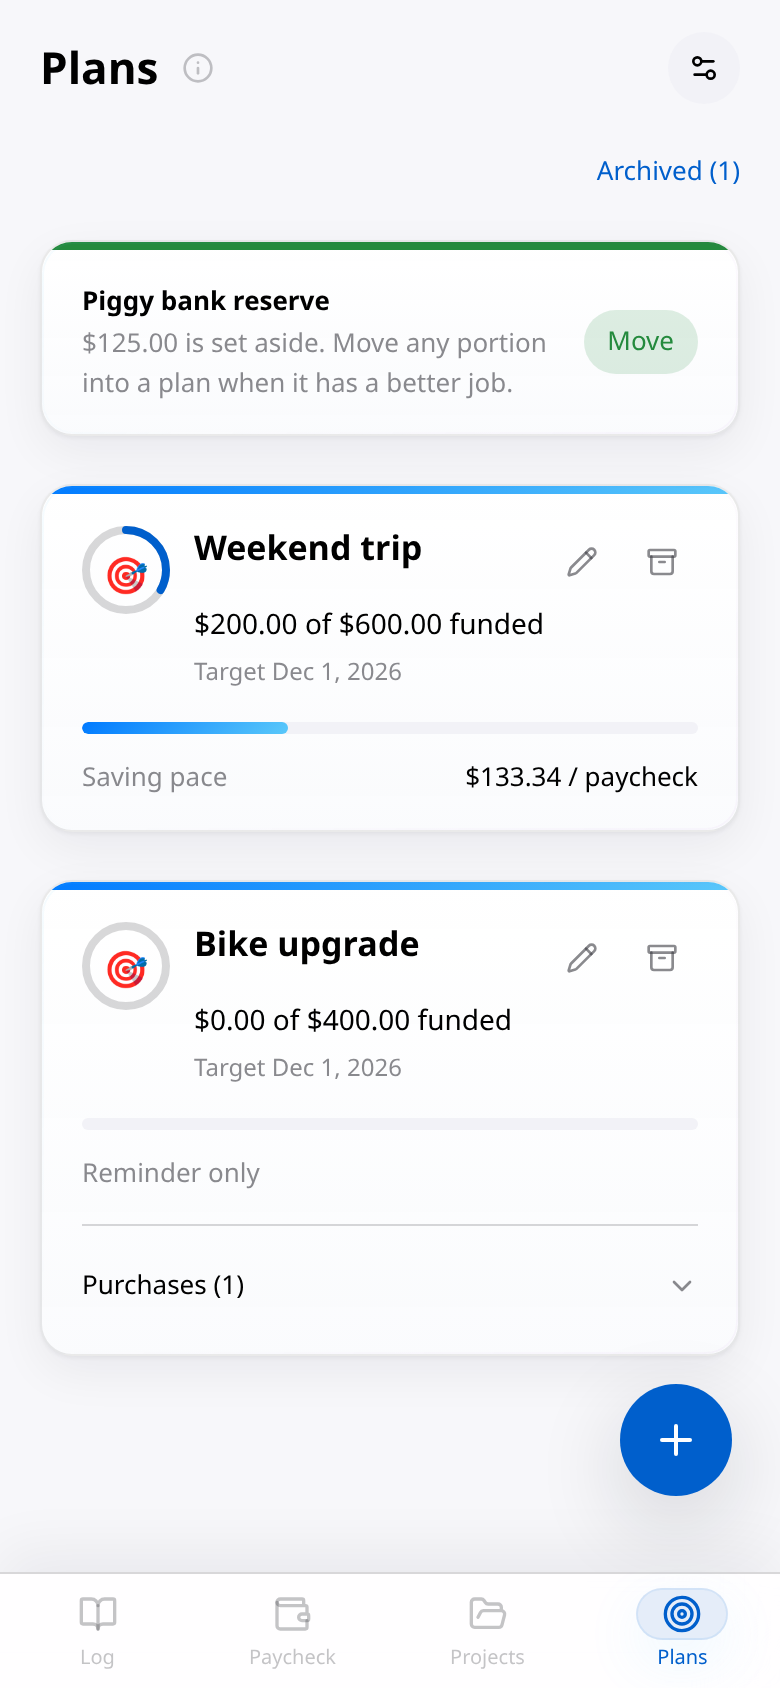
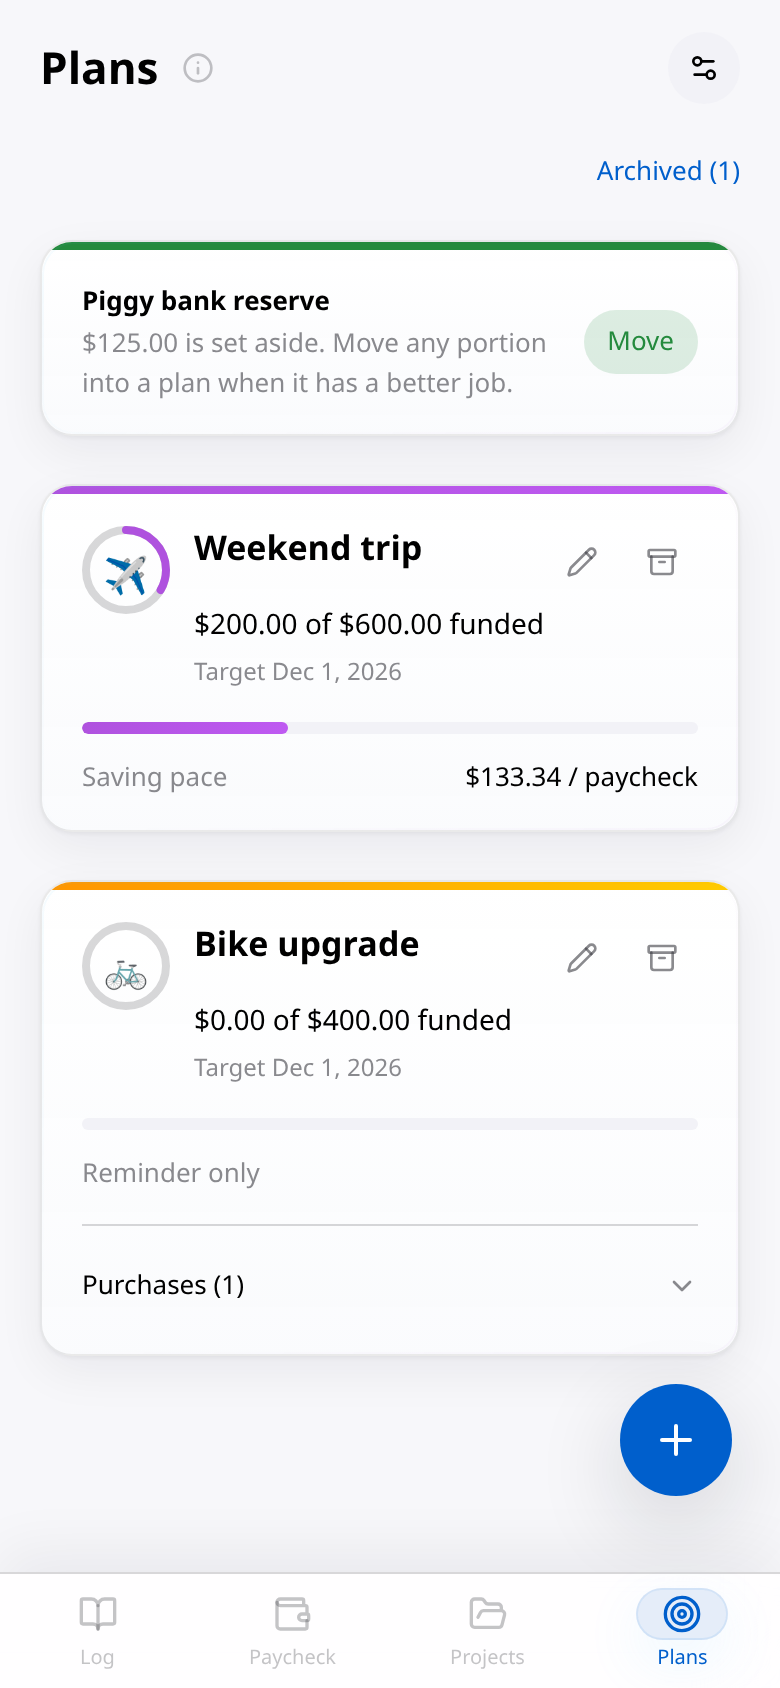
Give demo Plans distinct appearances and show paycheck history

Changed region(s): [[0.0923, 0.2773, 0.9231, 0.3697], [0.0923, 0.5237, 0.9231, 0.5853], [0.1231, 0.4005, 0.3692, 0.4621]]

diff --git a/app/(app)/goals/goals-client.tsx b/app/(app)/goals/goals-client.tsx
@@ -62,6 +62,7 @@ const EMOJI_CHOICES = [
   "🏝",
   "🏠",
   "🚗",
+  "🚲",
   "💍",
   "🎓",
   "🎁",

diff --git a/docs/DEMO.md b/docs/DEMO.md
@@ -6,7 +6,7 @@ This walkthrough uses invented income, expenses, and savings. Screenshots were c
 
 Use a separate blank demo installation and a new account, then follow these steps through the UI. A normal installation starts empty; the database setup does not insert this example. You do not need SQL or an administrative key to enter the scenario.
 
-Choose your current local date as the recent payday and use America/New_York for the example timezone. The screenshots were captured on October 6, 2026. For a later walkthrough, shift the due dates and Plan dates relative to your own starting date.
+Choose your current local date as the recent payday and use America/New_York for the example timezone. The opening screenshots use October 6, 2026; the later timeline advances to November 5. For a later walkthrough, shift the due dates and Plan dates relative to your own starting date.
 
 | Setup | Fictional value |
 | --- | --- |
@@ -34,36 +34,38 @@ Paycheck shows the current spending envelope shares and investment remainder aft
 
 ## 3. Record everyday spending
 
-In Log, add $36.40 to Groceries with the description Weekly groceries, then $12 to Fun money with the description Coffee with friends. Review each formatted amount before saving. Fun money now has $48 left.
+In Log, add $36.40 to Groceries with the description Costco, then $12 to Fun money with the description Starbucks. The description names the merchant; the selected envelope supplies the spending category. Review each formatted amount before saving. Fun money now has $48 left.
 
-<img src="screenshots/04-daily-log.png" width="300" alt="Daily Log containing fictional groceries and coffee purchases">
+<img src="screenshots/04-daily-log.png" width="300" alt="Daily Log containing fictional Costco and Starbucks purchases in their spending envelopes">
 
 ## 4. Give saved money a purpose
 
 In Plans, create these three examples. Set their target dates eight weeks after setup.
 
-| Plan | Target | Already saved | Save from paychecks |
-| --- | --- | --- | --- |
-| Weekend trip | $600 | $200 | On; start with the next paycheck |
-| Home workspace | $500 | $500 | Off |
-| Bike upgrade | $400 | $0 | Off |
+Open Appearance in each Plan form to choose its icon and color.
 
-The Weekend trip card shows the saving pace for the eligible paydays before its target date. Already saved represents fictional money already set aside; it is not extra income from the current paycheck.
+| Plan | Icon / color | Target | Already saved | Save from paychecks |
+| --- | --- | --- | --- | --- |
+| Weekend trip | ✈ / Lilac | $600 | $200 | On; start with the next paycheck |
+| Home workspace | 💻 / Ocean | $500 | $500 | Off |
+| Bike upgrade | 🚲 / Sunset | $400 | $0 | Off |
+
+The Weekend trip card shows the saving pace for the eligible paydays before its target date. Already saved represents fictional money already set aside; it is not extra income from the current paycheck. A fully funded Plan uses a green progress accent, as shown by Home workspace.
 
 <img src="screenshots/05-plans.png" width="300" alt="Three fictional Plans with saved balances and a scheduled saving pace">
 
 ## 5. Buy within a funded Project
 
-In Projects, choose Add project and select Home workspace. Record a Keyboard for $85 and a Desk lamp for $40. The $500 already saved covers both purchases, leaving $375 available.
+In Projects, choose Add project and select Home workspace. Open Organize, choose Add group, enter Equipment, and select Done. Record a Keyboard for $85 and a Desk lamp for $40, choosing Equipment in each purchase form. The $500 already saved covers both purchases, leaving $375 available.
 
-<img src="screenshots/06-project-funded.png" width="300" alt="Home workspace Project with two purchases covered by saved money">
+<img src="screenshots/06-project-funded.png" width="300" alt="Home workspace Project with funded keyboard and lamp purchases grouped as Equipment">
 
 ## 6. See a purchase that needs future money
 
-Add Bike upgrade as another Project and enter a $75 Bike rack. Before saving, the form shows that $75 will be covered by future paychecks. After saving, the Project retains that funding need. Choosing a later date does not turn this purchase into an already-funded one.
+Add Bike upgrade as another Project and use Organize to create a Parts group. Enter a $75 Bike rack and choose Parts in the purchase form. Before saving, the form shows that $75 will be covered by future paychecks. After saving, the Project retains that funding need. Choosing a later date does not turn this purchase into an already-funded one.
 
 <img src="screenshots/07-purchase-future.png" width="300" alt="Bike rack purchase form showing seventy-five dollars that needs future paychecks">
-<img src="screenshots/08-project-future.png" width="300" alt="Bike upgrade Project showing its remaining future funding requirement">
+<img src="screenshots/08-project-future.png" width="300" alt="Bike upgrade Project with its rack listed under Parts and a remaining future funding requirement">
 
 ## 7. Finish the funded Project
 
@@ -95,5 +97,36 @@ Settings shows the same pay, bills, and envelopes entered during setup. Because 
 ## What was verified
 
 The walkthrough uses ordinary app forms and actions. Local database checks verify the $375 completion release, the $125/$250 allocation split, the $80 recorded investment, and zero covered funding for the Bike rack when it was recorded. The browser title, manifest names, icon responses, mobile width, and browser errors are checked during capture.
+
+## Follow the account across paydays
+
+The same fictional account continues from October 6 through November 5. Browser, app server, and the disposable financial database advance together; authentication stays on its real clock. These date controls are local capture tooling and are not installed into the product.
+
+| Date | Added activity |
+| --- | --- |
+| October 7 | Sam’s Club $88.15 in Groceries, Shell $38 in Transport, Dunkin’ $5.75 in Fun money. |
+| October 13 | Confirm Apartment rent $1,000 and Internet $60 on their due date. |
+| October 20 | A new paycheck; Walmart $54.23, Shell $42, AMC $18, $100 income from Facebook Marketplace, and a $400 actual investment transfer. |
+| October 25 | ALDI $24.85, Uber $14, AMC $16. |
+| November 3 | Another paycheck; eligible saving and funding synchronize. |
+| November 5 | Costco $64.25, Shell $39.50, Starbucks $8.75. |
+
+The expanded paycheck breakdown shows the current funding priorities. History now contains the October 6–19 and October 20–November 2 paychecks, with income, spending, and a receipt for each. By month combines the earlier activity into October. The original $80 and later $400 actual investment records stay attached to their own paychecks.
+
+| History period | Income | Spending |
+| --- | --- | --- |
+| October 6–19 | $2,000.00 | $1,440.30 |
+| October 20–November 2 | $2,100.00 | $169.08 |
+| October by month | $4,100.00 | $1,609.38 |
+
+The final account contains 20 entries across six dates and two confirmed bill payments. Two scheduled saving contributions fund Weekend trip to $466.67. Reopening the views does not duplicate those contributions.
+
+<img src="screenshots/16-paycheck-breakdown.png" width="350" alt="Full expanded November paycheck breakdown showing bills, spending envelopes, saving, and the investment remainder">
+<img src="screenshots/17-paycheck-history.png" width="300" alt="Populated History card showing two past paychecks with income and spending">
+<img src="screenshots/18-history-detail.png" width="300" alt="A past paycheck receipt with its income and spending details">
+<img src="screenshots/19-paycheck-month-history.png" width="300" alt="History grouped by month with October income and spending">
+<img src="screenshots/20-log-later-paycheck.png" width="300" alt="November daily Log with fictional Costco, Shell, and Starbucks entries">
+<img src="screenshots/21-plans-later-paycheck.png" width="300" alt="Plans after scheduled funding across later paychecks">
+<img src="screenshots/22-log-bill-payments.png" width="300" alt="October 13 Log showing confirmed rent and internet payments">
 
 Clock rollover, missed paydays, leap years, and daylight saving have their own [calendar verification](DATE_TESTING.md). Screenshots freeze the example at its capture date; a running account continues to advance with its saved timezone. The [user guide](USER_GUIDE.md) explains daily use, and [installation](INSTALL.md) explains how to create an independent installation.

diff --git a/PUBLIC_RELEASE_AUDIT.md b/PUBLIC_RELEASE_AUDIT.md
@@ -124,9 +124,15 @@ No schema or dependency changes are required. Existing installations keep their 
 
 The owner selected **Jing’s Finance App** and a fictional walkthrough with screenshots. Shared public identity constants now supply the browser title, account-page label, manifest name, and installed short name **Jing’s Finance**. The existing local blue finance icon and app layout remain in use.
 
-Added `docs/PUBLIC_README_DRAFT.md`, `docs/USER_GUIDE.md`, and `docs/DEMO.md`. The README remains an explicitly marked review draft rather than a final marketing README. The walkthrough contains **15 genuine mobile browser screenshots** of a fresh fictional local account, covering setup, daily spending, Plans, funded/uncovered Project purchases, completion, allocation review, Settings, and actual investing. Screenshots are intentionally included under `docs/screenshots`; test sessions, local credentials, browser state, and capture tooling are excluded. No sample account or SQL seed is installed into the product.
+Added `docs/PUBLIC_README_DRAFT.md`, `docs/USER_GUIDE.md`, and `docs/DEMO.md`. The README remains an explicitly marked review draft rather than a final marketing README. The walkthrough contains **22 genuine mobile browser screenshots** of a fresh fictional local account, covering setup, daily spending, Plans, funded/uncovered Project purchases, completion, allocation review, Settings, actual investing, a full expanded paycheck breakdown, paycheck receipts, and history by paycheck and month. Screenshots are intentionally included under `docs/screenshots`; test sessions, local credentials, browser state, and capture tooling are excluded. No sample account or SQL seed is installed into the product.
 
-The browser capture checked the title, manifest names, icon responses, mobile width, and absence of console/page errors. Database assertions verified one $375 Project release, $125 to Piggy reserve plus $250 to investment from that release, zero initially covered funding for the $75 Bike rack, and an $80 actual investment transfer. A separate browser revisit verified $173 of discretionary funds and the distinct recorded transfer/suggestion. All 15 screenshots were visually reviewed and their PNG integrity/dimensions checked; none contains embedded text or EXIF metadata. All 32 documentation links/image references resolved. A scan of 225 publication text files found no exact local credentials or live-key/project patterns. The full fresh-account confirmation/reset/retained-records browser regression passed after branding; build/TypeScript, lint, and whitespace checks passed. The earlier 402 unit/integration tests and eight calendar/financial browser regressions describe the accounting code, which this presentation step did not change.
+The demo uses distinct Plan appearances selected through the existing form: Weekend trip uses the airplane/Lilac appearance, Bike upgrade uses bicycle/Sunset, and Home workspace uses laptop/Ocean (green when fully funded). The bicycle was added to the curated icon choices. Log descriptions use Costco and Starbucks as fictional merchant examples, with the selected envelopes supplying their spending categories. Project purchases are explicitly grouped into Equipment and Parts through Organize and the purchase form. Capture verifies saved icons/colors, merchant descriptions, purchase-group assignments, and financial outcomes.
+
+The browser capture checked the title, manifest names, icon responses, mobile width, and absence of console/page errors. Database assertions verified one $375 Project release, $125 to Piggy reserve plus $250 to investment from that release, zero initially covered funding for the $75 Bike rack, and an $80 actual investment transfer. A separate browser revisit verified $173 of discretionary funds and the distinct recorded transfer/suggestion.
+
+The same fictional account then advanced from October 6 to November 5 with browser, server, and financial database clocks aligned; authentication retained its real clock. The final account has 20 entries across six dates, two bill confirmations, and two scheduled saving contributions. Browser and database assertions verified two past paycheck cards, their income/spending totals and receipt, monthly history, and repeat-safe saving. The original $80 and later $400 recorded investment transfers retained their respective October 6 and October 20 paychecks. No physical clock or hosted database was changed.
+
+All 22 screenshots were visually reviewed and their PNG integrity/dimensions checked; none contains embedded text or EXIF metadata. The full breakdown uses an element capture so the complete card is visible; the other captures use the mobile viewport. All 41 documentation links/image references resolved. A scan of 225 publication text files found no exact local credentials or live-key/project patterns and no private environment files in the publication tree. The full fresh-account confirmation/reset/retained-records browser regression passed after branding, and the subsequent clock-controlled walkthrough verified the refined demo against the final production build. Build/TypeScript, lint, and whitespace checks passed. The earlier 402 unit/integration tests and eight calendar/financial browser regressions describe the accounting code, which this presentation step did not change.
 
 No schema, dependency, remote, hosted database, or deployment changes were made. Existing installations retain their database and `.env.local` and must not rerun `db:setup`. The fictional walkthrough is available for review; a live hosted demo remains a separate future decision.
 

diff --git a/docs/USER_GUIDE.md b/docs/USER_GUIDE.md
@@ -20,7 +20,7 @@ The opening paycheck is a planning allowance from when tracking starts. Setup do
 
 ## Record the day in Log
 
-Choose Today or a historical date, then use the plus button to add an entry. Select the category, enter the amount, choose its bill/envelope/Plan when applicable, and save. Review the formatted amount before saving.
+Choose Today or a historical date, then use the plus button to add an entry. Select the category, enter the amount, choose its bill/envelope/Plan when applicable, and save. Use the description for the merchant, such as Costco or Walmart; the selected envelope already supplies the spending category. Review the formatted amount before saving.
 
 For a recurring bill, select the saved bill and confirm its actual payment. A payment above the saved budget creates recovery for the excess. Confirming payments keeps the bill's next due date and reserve calculation tied to actual occurrences.
 
@@ -42,7 +42,11 @@ The Next paycheck card shows the upcoming date and the pay amount effective then
 
 Create a Plan with a target amount and date. Enter money already saved only when it is already set aside. Save from paychecks adds scheduled saving to paycheck planning; choose its starting paycheck. Review the saving pace shown on the Plan.
 
+Open Appearance in the Plan form to choose an icon and color so you can recognize each Plan at a glance. Fully funded Plans use a green progress accent.
+
 In Projects, choose Add project and select a Plan. Record purchases there to keep their spending together. Available Plan savings cover a purchase up to the funded amount. The purchase form shows any portion that will need future paychecks.
+
+Use Organize to create specific purchase groups, such as Parts or Equipment, then select the group when adding a purchase. You can also move existing purchases between groups.
 
 When the Project is done, choose Finish project and review its totals. Finishing closes spending and releases only proven unused savings. An uncovered balance continues to need future funding after completion.
 

diff --git a/docs/PUBLIC_README_DRAFT.md b/docs/PUBLIC_README_DRAFT.md
@@ -23,6 +23,8 @@ All records and amounts in these screenshots are fictional. They were captured f
 <img src="screenshots/03-paycheck-start.png" width="240" alt="A fictional paycheck breakdown with sixty dollars of guilt-free money available">
 <img src="screenshots/05-plans.png" width="240" alt="Fictional saving Plans for a weekend trip, home workspace, and bike upgrade">
 <img src="screenshots/06-project-funded.png" width="240" alt="A home workspace Project with funded keyboard and desk lamp purchases">
+<img src="screenshots/16-paycheck-breakdown.png" width="240" alt="Expanded paycheck breakdown after advancing through later paydays">
+<img src="screenshots/17-paycheck-history.png" width="240" alt="Populated paycheck history with two past periods of fictional activity">
 
 Follow the [fictional demo walkthrough](DEMO.md), or read the [user guide](USER_GUIDE.md).
 
